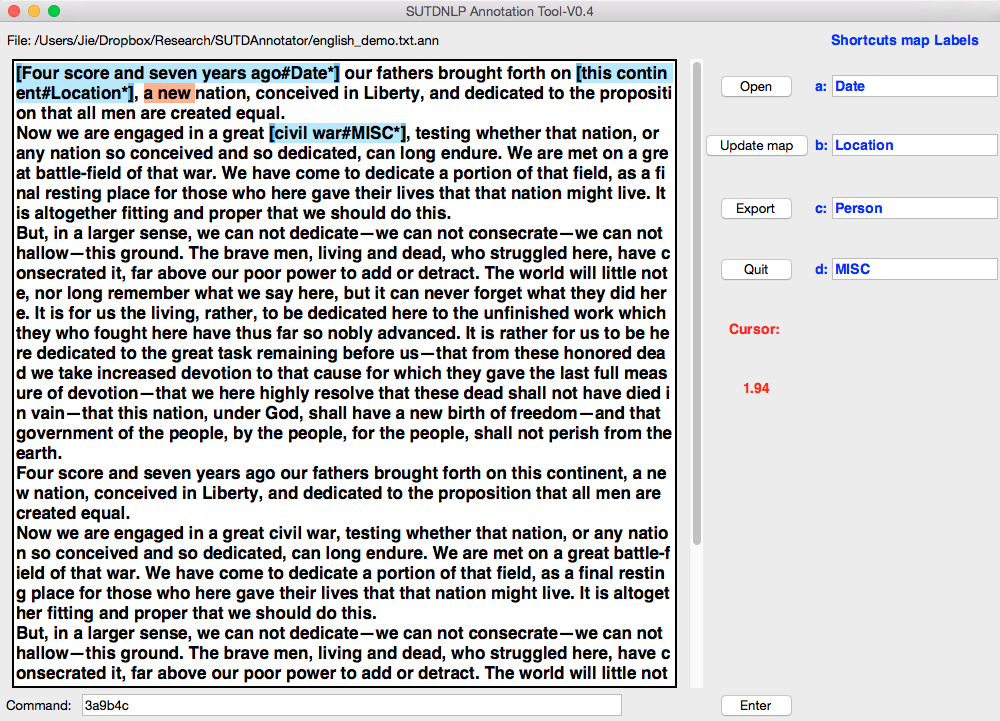
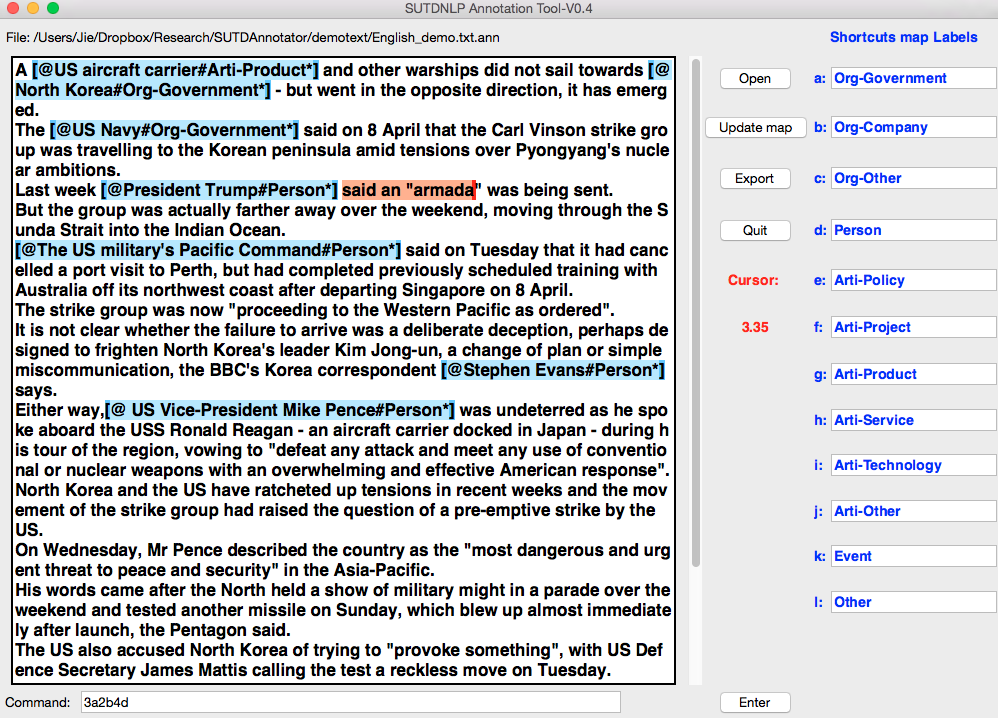
v0.5

diff --git a/SUTDAnnotator.py b/SUTDAnnotator.py
@@ -2,7 +2,7 @@
 # @Author: Jie Yang from SUTD
 # @Date:   2016-Jan-06 17:11:59
 # @Last Modified by:   Jie     @Contact: jieynlp@gmail.com
-# @Last Modified time: 2017-04-19 13:20:54
+# @Last Modified time: 2017-04-19 17:01:25
 #!/usr/bin/env python
 # coding=utf-8
 
@@ -40,13 +40,14 @@ class Example(Frame):
         self.seged = True
         self.configFile = "config"
         self.colorAllChunk = True
+        self.entityRe = r'\[\@.*?\#.*?\*\]'
 
         self.initUI()
         
         
     def initUI(self):
       
-        self.parent.title("SUTDNLP Annotation Tool-V0.4")
+        self.parent.title("SUTDNLP Annotation Tool-V0.5")
         self.pack(fill=BOTH, expand=True)
         
         for idx in range(0,self.textColumn):
@@ -230,10 +231,10 @@ class Example(Frame):
         followHalf_content = self.text.get(firstSelection_index, "end-1c").encode('utf-8')
         try:
             selected_string = self.text.selection_get().encode('utf-8')
-            if ((command == "q")&(selected_string[0] == '[')&(selected_string[-1] == ']')&(selected_string.find('#')>0)&(selected_string.find('*')>0)):
+            if ((command == "q")&(selected_string[:2] == "[@")&(selected_string[-1] == "]")&(selected_string.find("#")>0)&(selected_string.find('*')>0)):
                 print "q yes"
                 if True:    
-                    new_string_list = selected_string.strip('[]').rsplit('#',1)
+                    new_string_list = selected_string.strip('[@]').rsplit('#',1)
                     new_string = ''
                     # for idx in range(0, len(new_string_list)-1):
                     #     new_string += new_string_list[idx]
@@ -303,7 +304,7 @@ class Example(Frame):
 
     def replaceString(self, content, string, replaceType, cursor_index):
         if replaceType in self.pressCommand:
-            new_string = "[" + string + '#' + self.pressCommand[replaceType] + "*]" 
+            new_string = "[@" + string + "#" + self.pressCommand[replaceType] + "*]" 
             cursor_indexList = cursor_index.split('.') 
             newcursor_index = "%s + %sc" % (cursor_index, str(len(self.pressCommand[replaceType])+4))
             # newcursor_index = cursor_indexList[0] + "." + str(int(cursor_indexList[1])+ len(new_string))
@@ -368,7 +369,7 @@ class Example(Frame):
         while True:
             self.text.tag_configure("catagory", background="LightSkyBlue1")
             self.text.tag_configure("edge", background="SteelBlue1")
-            pos = self.text.search(r'\[.*?\#.*?\*\]', "matchEnd" , "searchLimit",  count=countVar, regexp=True)
+            pos = self.text.search(self.entityRe, "matchEnd" , "searchLimit",  count=countVar, regexp=True)
             if pos =="":
                 break
             self.text.mark_set("matchStart", pos)
@@ -398,7 +399,7 @@ class Example(Frame):
         while True:
             self.text.tag_configure("catagory", background="LightSkyBlue1")
             self.text.tag_configure("edge", background="SteelBlue1")
-            pos = self.text.search(r'\[.*?\#.*?\*\]', "matchEnd" , "searchLimit",  count=countVar, regexp=True)
+            pos = self.text.search(self.entityRe, "matchEnd" , "searchLimit",  count=countVar, regexp=True)
             if pos == "":
                 break
             self.text.mark_set("matchStart", pos)
@@ -498,7 +499,7 @@ class Example(Frame):
                 seqFile.write('\n')
                 continue
             else:
-                wordTagPairs = getWordTagPairs(line, self.seged, self.tagScheme, self.onlyNP)
+                wordTagPairs = getWordTagPairs(line, self.seged, self.tagScheme, self.onlyNP, self.entityRe)
                 for wordTag in wordTagPairs:
                     seqFile.write(wordTag)
                 ## use null line to seperate sentences
@@ -508,9 +509,9 @@ class Example(Frame):
         print "Line number:",lineNum
 
 
-def getWordTagPairs(tagedSentence, seged=True, tagScheme="BMES", onlyNP=False):
+def getWordTagPairs(tagedSentence, seged=True, tagScheme="BMES", onlyNP=False, entityRe=r'\[\@.*?\#.*?\*\]'):
     newSent = tagedSentence.strip('\n').decode('utf-8')
-    filterList = re.findall('\[.*?\#.*?\*\]', newSent)
+    filterList = re.findall(entityRe, newSent)
     newSentLength = len(newSent)
     
     chunk_list = []
@@ -568,7 +569,7 @@ def turnFullListToOutputPair(fullList, seged=True, tagScheme="BMES", onlyNP=Fals
     pairList = []
     for eachList in fullList:
         if eachList[3]:
-            contLabelList = eachList[0].strip('[]').rsplit('#', 1)
+            contLabelList = eachList[0].strip('[@]').rsplit('#', 1)
             if len(contLabelList) != 2:
                 print "Error: sentence format error!"
             label = contLabelList[1].strip('*')

diff --git a/README.md b/README.md
@@ -28,7 +28,7 @@ The annotated results will be stored synchronously. Annotated file is located at
 Other features:
 =====
 * Type `ctrl + z` will undo  the most recent modification
-* Selected the annotated text, such as "[美国＃Location*]", then press `q`, the annotated text will be recoverd to unannotate format (i.e. "美国").
+* Selected the annotated text, such as "[@美国＃Location*]", then press `q`, the annotated text will be recoverd to unannotate format (i.e. "美国").
 * In the command entry, just type `Enter` without any command, the cursor in text will move to the head of next line. (You can monitor this through "Cursor").
 * The "Cursor" shows the current cursor position in text widget. `1.12+9c` means the `1st` line `12th` characters add with `9` character, which equals the `1st` line `21th` characters.
 * `Export` button will export the ***".ann"*** file as a identity name with ***".anns"*** in the same directory. The exported file list the content in sequence format.
@@ -36,6 +36,7 @@ Other features:
 
 Updating...
 ====
+* 2017-Apr-19, (V 0.5): update entity represent as [@Entity#Type*], fix some bugs
 * 2017-Apr-15, (V 0.4): update example and readme
 * 2017-Apr-13, (V 0.4): modify color; support setting color single line or whole file (may be slow in large file) (`self.colorAllChunk`)
 * 2017-Apr-12, (V 0.4): support BMES/BIO export (`self.tagScheme`); support segmented sentence export(`self.seged`); can save previous shortcut setting.
